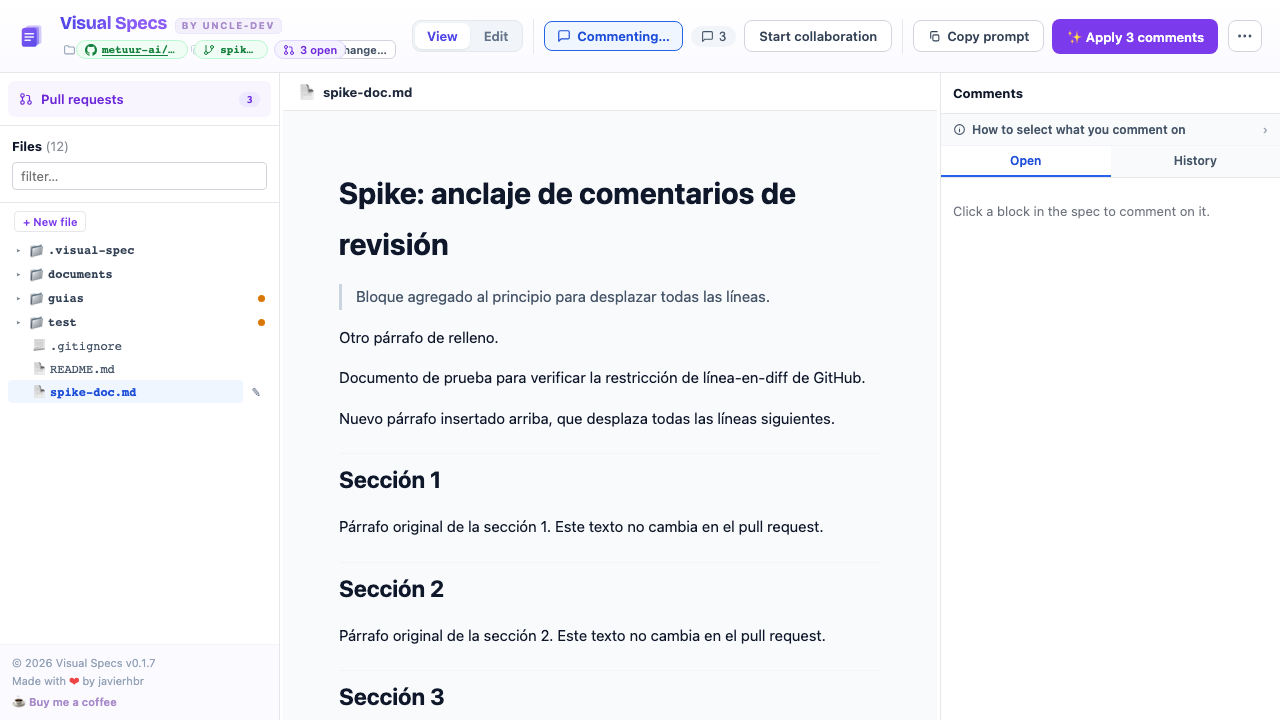
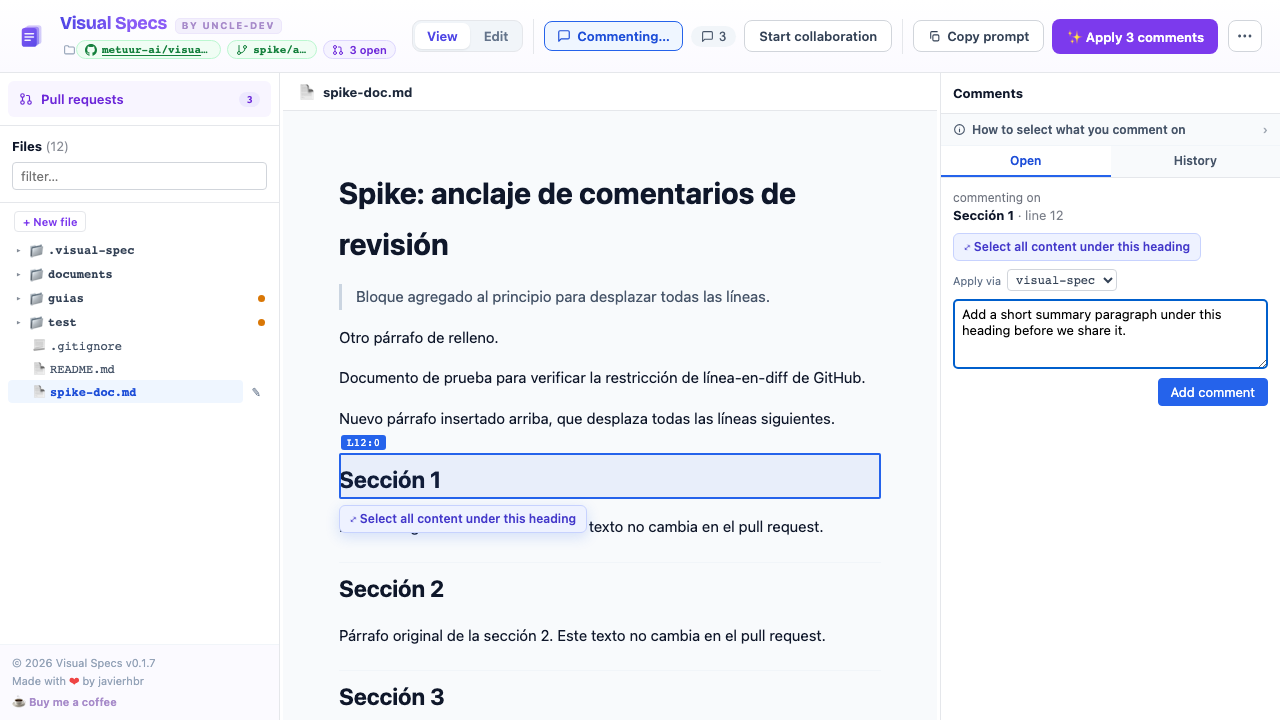
docs: a walkthrough of writing a document and collaborating on it
Eleven screenshots of the real tool against a real repository, not mockups:
the file tree and chips, commenting on a block, the note saved as "Your note",
the Start collaboration popover with the multi-file picker, the pull request
list, a checked-out pull request with its changed files, and the source view a
review comment anchors to.

Structured as the two jobs in the order they happen — write a document with
your own notes until it is ready, then collaborate on it through a pull
request — because that ordering is the thing the UI was hard to read without.
Closes with the terms that mean one specific thing, pointing at
docs/ubiquitous-language.md for the rest.

Also replaces the four screenshots that an over-eager `git add -A` swept into
ed42414 and 5350414: those were captured mid-session, before the chip row was
fixed, and three of them show the header overlapping itself.

Claude-Session: https://claude.ai/code/session_01GhFWBkBS9gkUbExryorrVj

diff --git a/docs/tutorial/README.md b/docs/tutorial/README.md
@@ -1,0 +1,177 @@
+# Visual Spec — a walkthrough
+
+Two jobs, in the order they happen: **write a document** with your own notes until it is
+ready, then **collaborate** on it through a GitHub pull request.
+
+Every screenshot here is the real tool running against a real repository
+(`metuur-ai/visual-spec-collaboration-test`), not a mockup.
+
+---
+
+## Before you start
+
+```sh
+npx @metuur/visual-spec .
+```
+
+That is the whole setup. Collaboration turns itself on from the directory's GitHub
+`origin` — you do not pass `--repo` unless you want a *different* repository than the one
+you are sitting in:
+
+```
+  visual-spec
+  ➜  dir:      /Users/you/your-specs
+  ➜  collab:   your-org/your-specs (from origin — --no-collab to disable)
+  ➜  open:     http://localhost:5180
+```
+
+If no GitHub credential is configured, collaboration stays off and everything below in
+Part 1 still works. Nothing contacts GitHub until you have authenticated.
+
+---
+
+# Part 1 — Write a document
+
+## 1. Open the tool on a folder
+
+![The file tree, the pull request count, and the git chips](images/01-start.png)
+
+The sidebar is the folder you pointed at. Above it, **Pull requests** with a count — that
+is the way in to Part 2, and it is there from the first screen.
+
+Top right, three chips describe where you are: the **repository**, the **branch**, and the
+**open pull request count**. Hover any of them for the full value; the repository chip's
+tooltip carries the full `owner/repo` and the origin URL.
+
+## 2. Open a file
+
+![A markdown document rendered, with the header's three zones](images/02-document.png)
+
+The header now shows three groups, in the order the work happens:
+
+| Zone | What it is for |
+| --- | --- |
+| **Document** | View or edit the file |
+| **Review** | Your notes on it, and sharing it |
+| **Agent** | Handing those notes to an agent |
+
+## 3. Start commenting
+
+![Comment mode, waiting for you to pick a block](images/03-comment-mode.png)
+
+Press **Start commenting** (or `I`). The document becomes clickable block by block —
+click the paragraph or heading your note is about.
+
+## 4. Write the note
+
+![The composer, anchored to a heading at line 12](images/04-write-note.png)
+
+The panel says exactly what the note is anchored to — `Sección 1 · line 12` — before you
+write a word. **Select all content under this heading** widens it from the heading to the
+whole section.
+
+These are **your notes**. Nothing here is sent anywhere.
+
+## 5. The note is saved locally
+
+![The saved note, labelled "Your note"](images/05-note-saved.png)
+
+Labelled **Your note**, because that is what it is: your own note about your own file,
+in a local sidecar file next to the document. The sidebar marks the file, and the header
+count goes up.
+
+> **Two kinds of comment, and they never mix.** A **note** is yours and local. A **pull
+> request comment** is something you write while collaborating, and belongs on GitHub.
+> The tool never turns one into the other by accident.
+
+## 6. Let an agent apply them
+
+The **Agent** zone is the other half of the loop:
+
+- **Copy prompt** — copies a prompt describing every open note, for any agent
+- **Apply N comments** — runs the bundled apply-comments skill directly
+
+As notes get applied they stop being open. When a file's notes have all been applied and
+none are left open, **Start collaboration** lights up — that is the tool's way of saying
+*this looks ready to share*. It is a hint, not a gate; you can share at any time.
+
+---
+
+# Part 2 — Collaborate
+
+## 7. Share the document
+
+![The Start collaboration popover](images/06-start-collaboration.png)
+
+**Start collaboration** creates a branch `visual-spec/<id>`, commits the file, and opens a
+pull request. The file keeps the path it already has — it is not copied into a
+`documents/` folder.
+
+## 8. Share several files at once
+
+![The companion picker with a second file ticked](images/07-multi-file.png)
+
+Under **Also include** are the *other* files you have been leaving notes on. Tick any of
+them and they travel on the same branch and the same pull request — one review
+conversation instead of one per file.
+
+Your open file is the **document** and is stated rather than offered: a collaboration has
+exactly one named document, and companions ride along with it.
+
+> Nothing is included because it was offered. The default is your open file alone.
+
+## 9. Find what is under review
+
+![The open pull requests, with their actions](images/08-pull-requests.png)
+
+**Pull requests** in the sidebar lists every open pull request in the repository. Each row
+offers what it actually can:
+
+| Row shows | Means |
+| --- | --- |
+| **Resume writing** | This PR carries a visual-spec document — pick it up where it was left |
+| **no document** | An ordinary pull request; there is nothing to resume |
+| **Review the code** | Check it out beside your files and read it |
+| **checked out · `sha`** | Already checked out, at that commit |
+
+## 10. Check a pull request out
+
+![The checked-out pull request, changed files first](images/09-review-code.png)
+
+**Review the code** checks the pull request out beside your files, detached at its head.
+The banner says **read-only — no commit, push or merge**, and means it.
+
+**Changed files** is what the pull request changes — the point of the review. The rest of
+the checkout is one disclosure below, for context.
+
+## 11. Read a file, then comment on it
+
+![A changed file, rendered](images/10-review-file.png)
+
+![Source view with line numbers, for anchoring a comment](images/11-review-comment.png)
+
+Rendered to read; **Source · to comment** to leave a comment, because a pull request
+comment anchors to a line in the diff. Click a line, or shift-click for a range.
+
+Comments you write here are **drafts** — held locally, labelled as not sent, until you
+send them. Sending is always something you do on purpose.
+
+---
+
+## The words this tool uses
+
+Terms that mean one specific thing. The full list is in
+[`docs/ubiquitous-language.md`](../ubiquitous-language.md).
+
+| Term | Means |
+| --- | --- |
+| **Note** | Your own local note about your own file. Never leaves your machine on its own. |
+| **Pull request comment** | Written while collaborating, belongs on GitHub. |
+| **Draft** | A pull request comment written but not yet sent. |
+| **Send** | Moves a draft to GitHub. |
+| **Start collaboration** | **Creates** a branch, a commit and a pull request. |
+| **Pull requests** | **Lists** what already exists, to resume or review. |
+| **Publish** | Commits a collaboration document to its branch. |
+
+The distinction that matters most: a verb that names *finding* is never attached to a
+control that *creates*.
